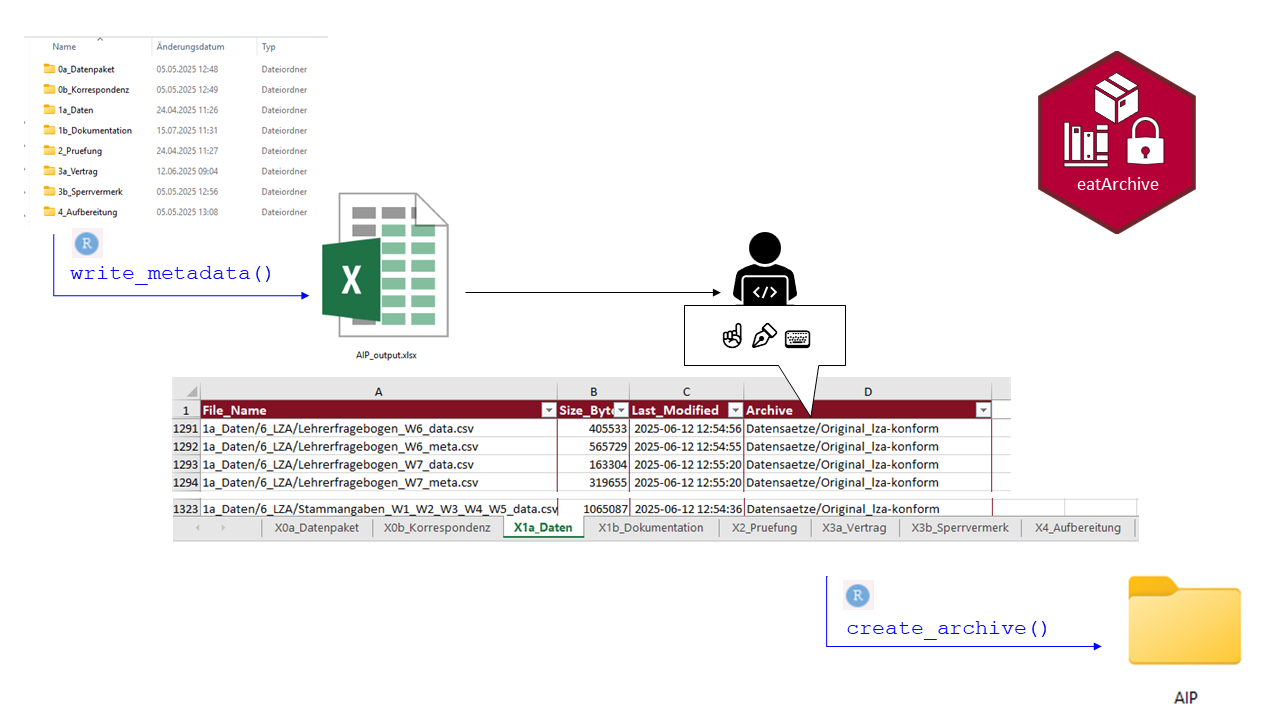
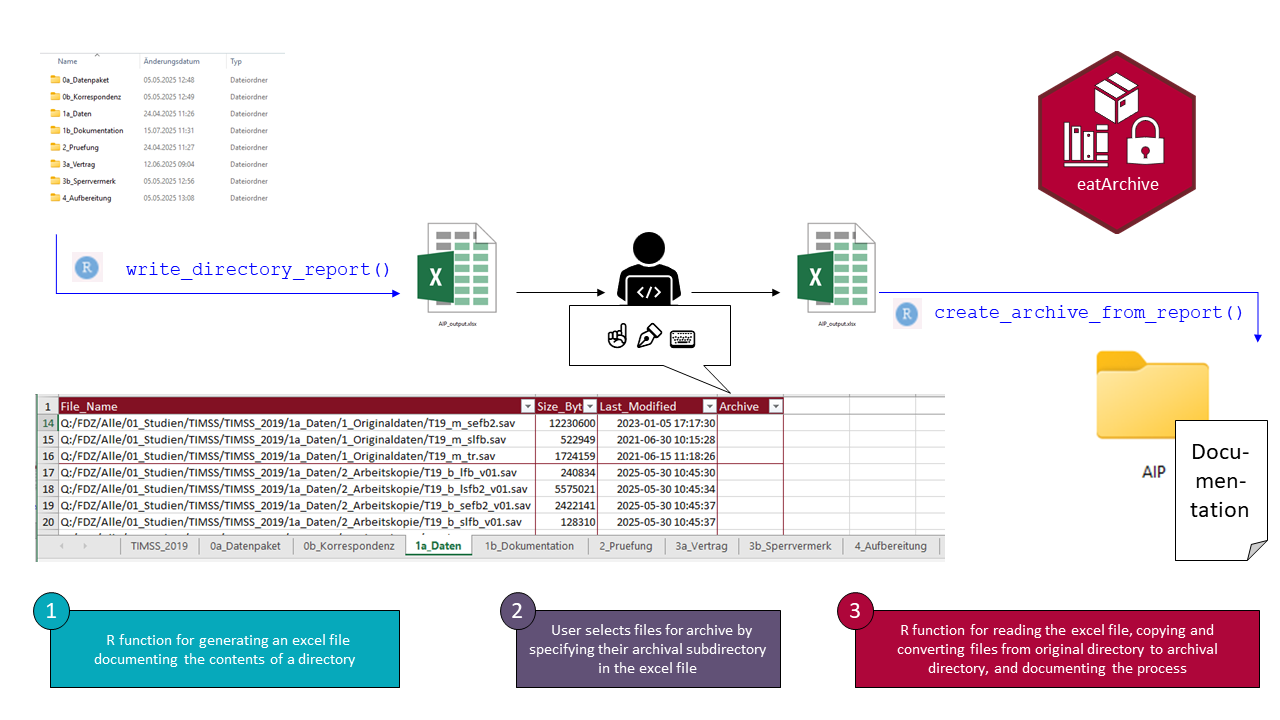
added second main function (create_archive_from report), utility functions, minor fixes

diff --git a/README.md b/README.md
@@ -35,13 +35,13 @@ remotes::install_github("buchjani/eatArchive")
 This is a schematic representation of the workflow, consisting of three
 major steps:
 
-1.  R function `write_metadata()` for generating an excel file
+1.  R function `write_directory_report()` for generating an excel file
     documenting the contents of a directory  
 2.  selecting files for archive, by specifying their archival
     subdirectory in the excel file
-3.  R function `create_archive()` for reading the excel file, copying
-    and converting files from the original directory to the archival
-    directory
+3.  R function `create_archive_from report()` for reading the excel
+    file, copying and converting files from the original directory to
+    the archival directory
 
 <img src="./man/figures/README-workflow.png" id="id" class="class"
 width="900" />
